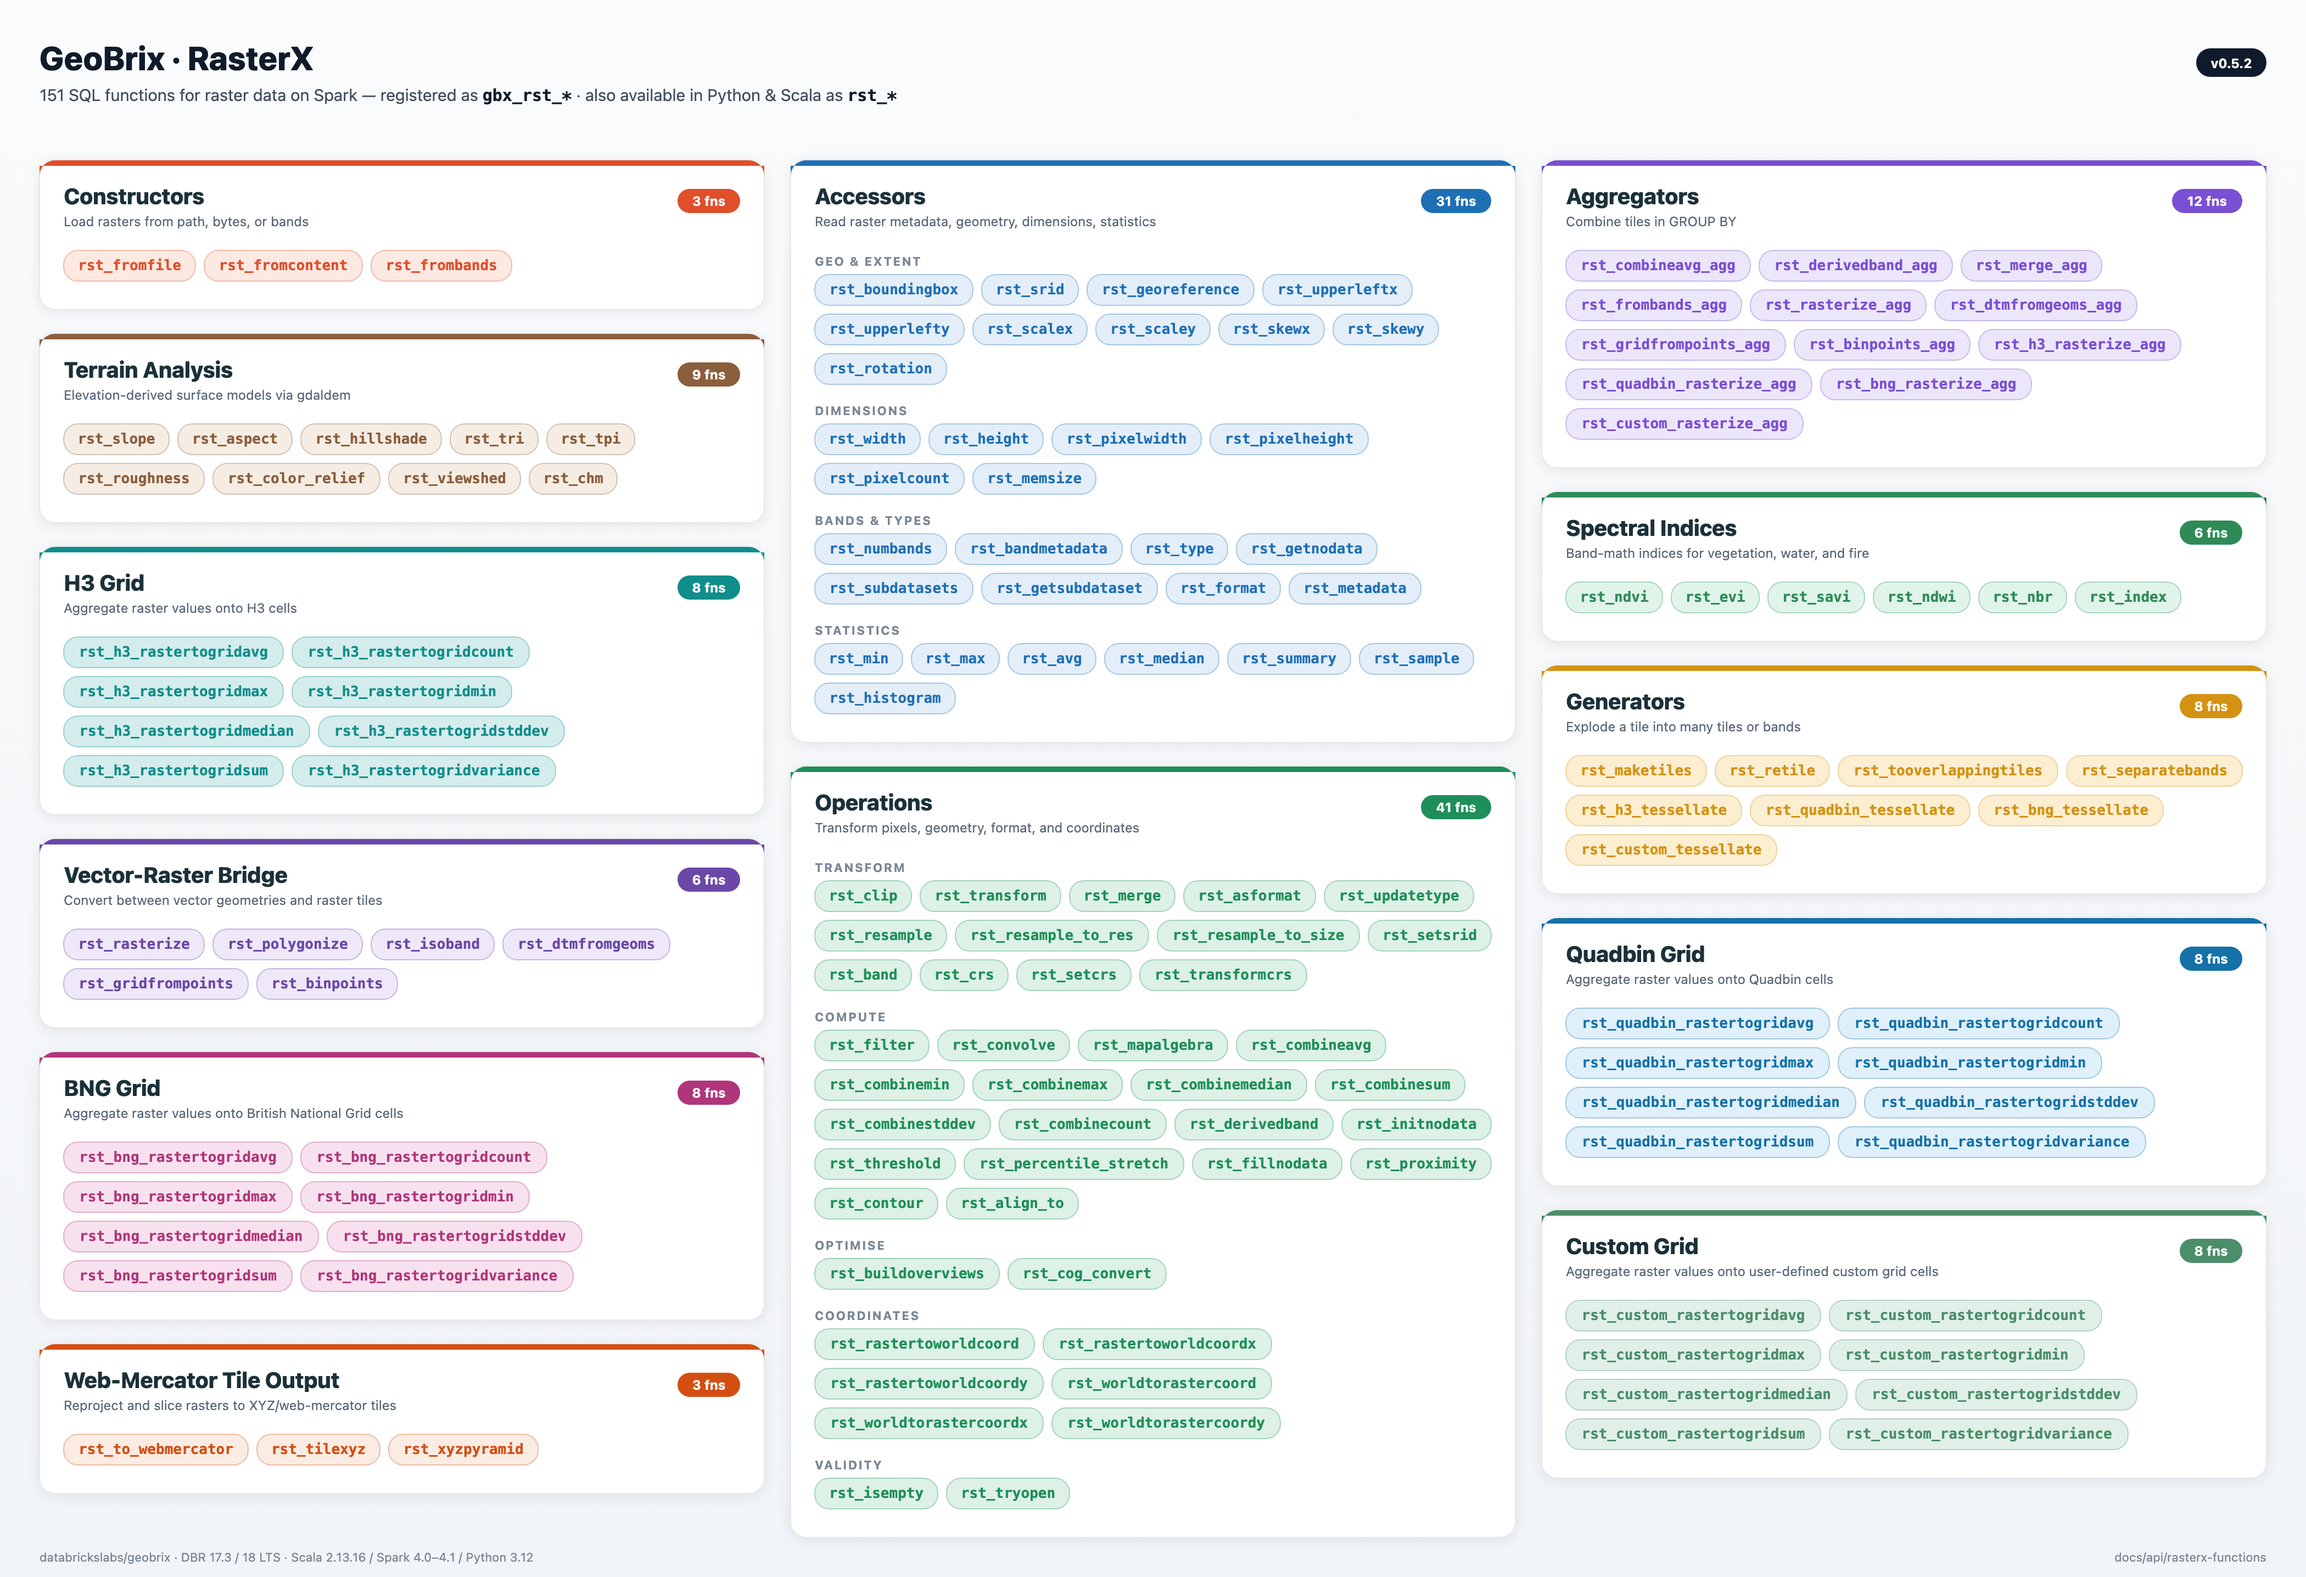
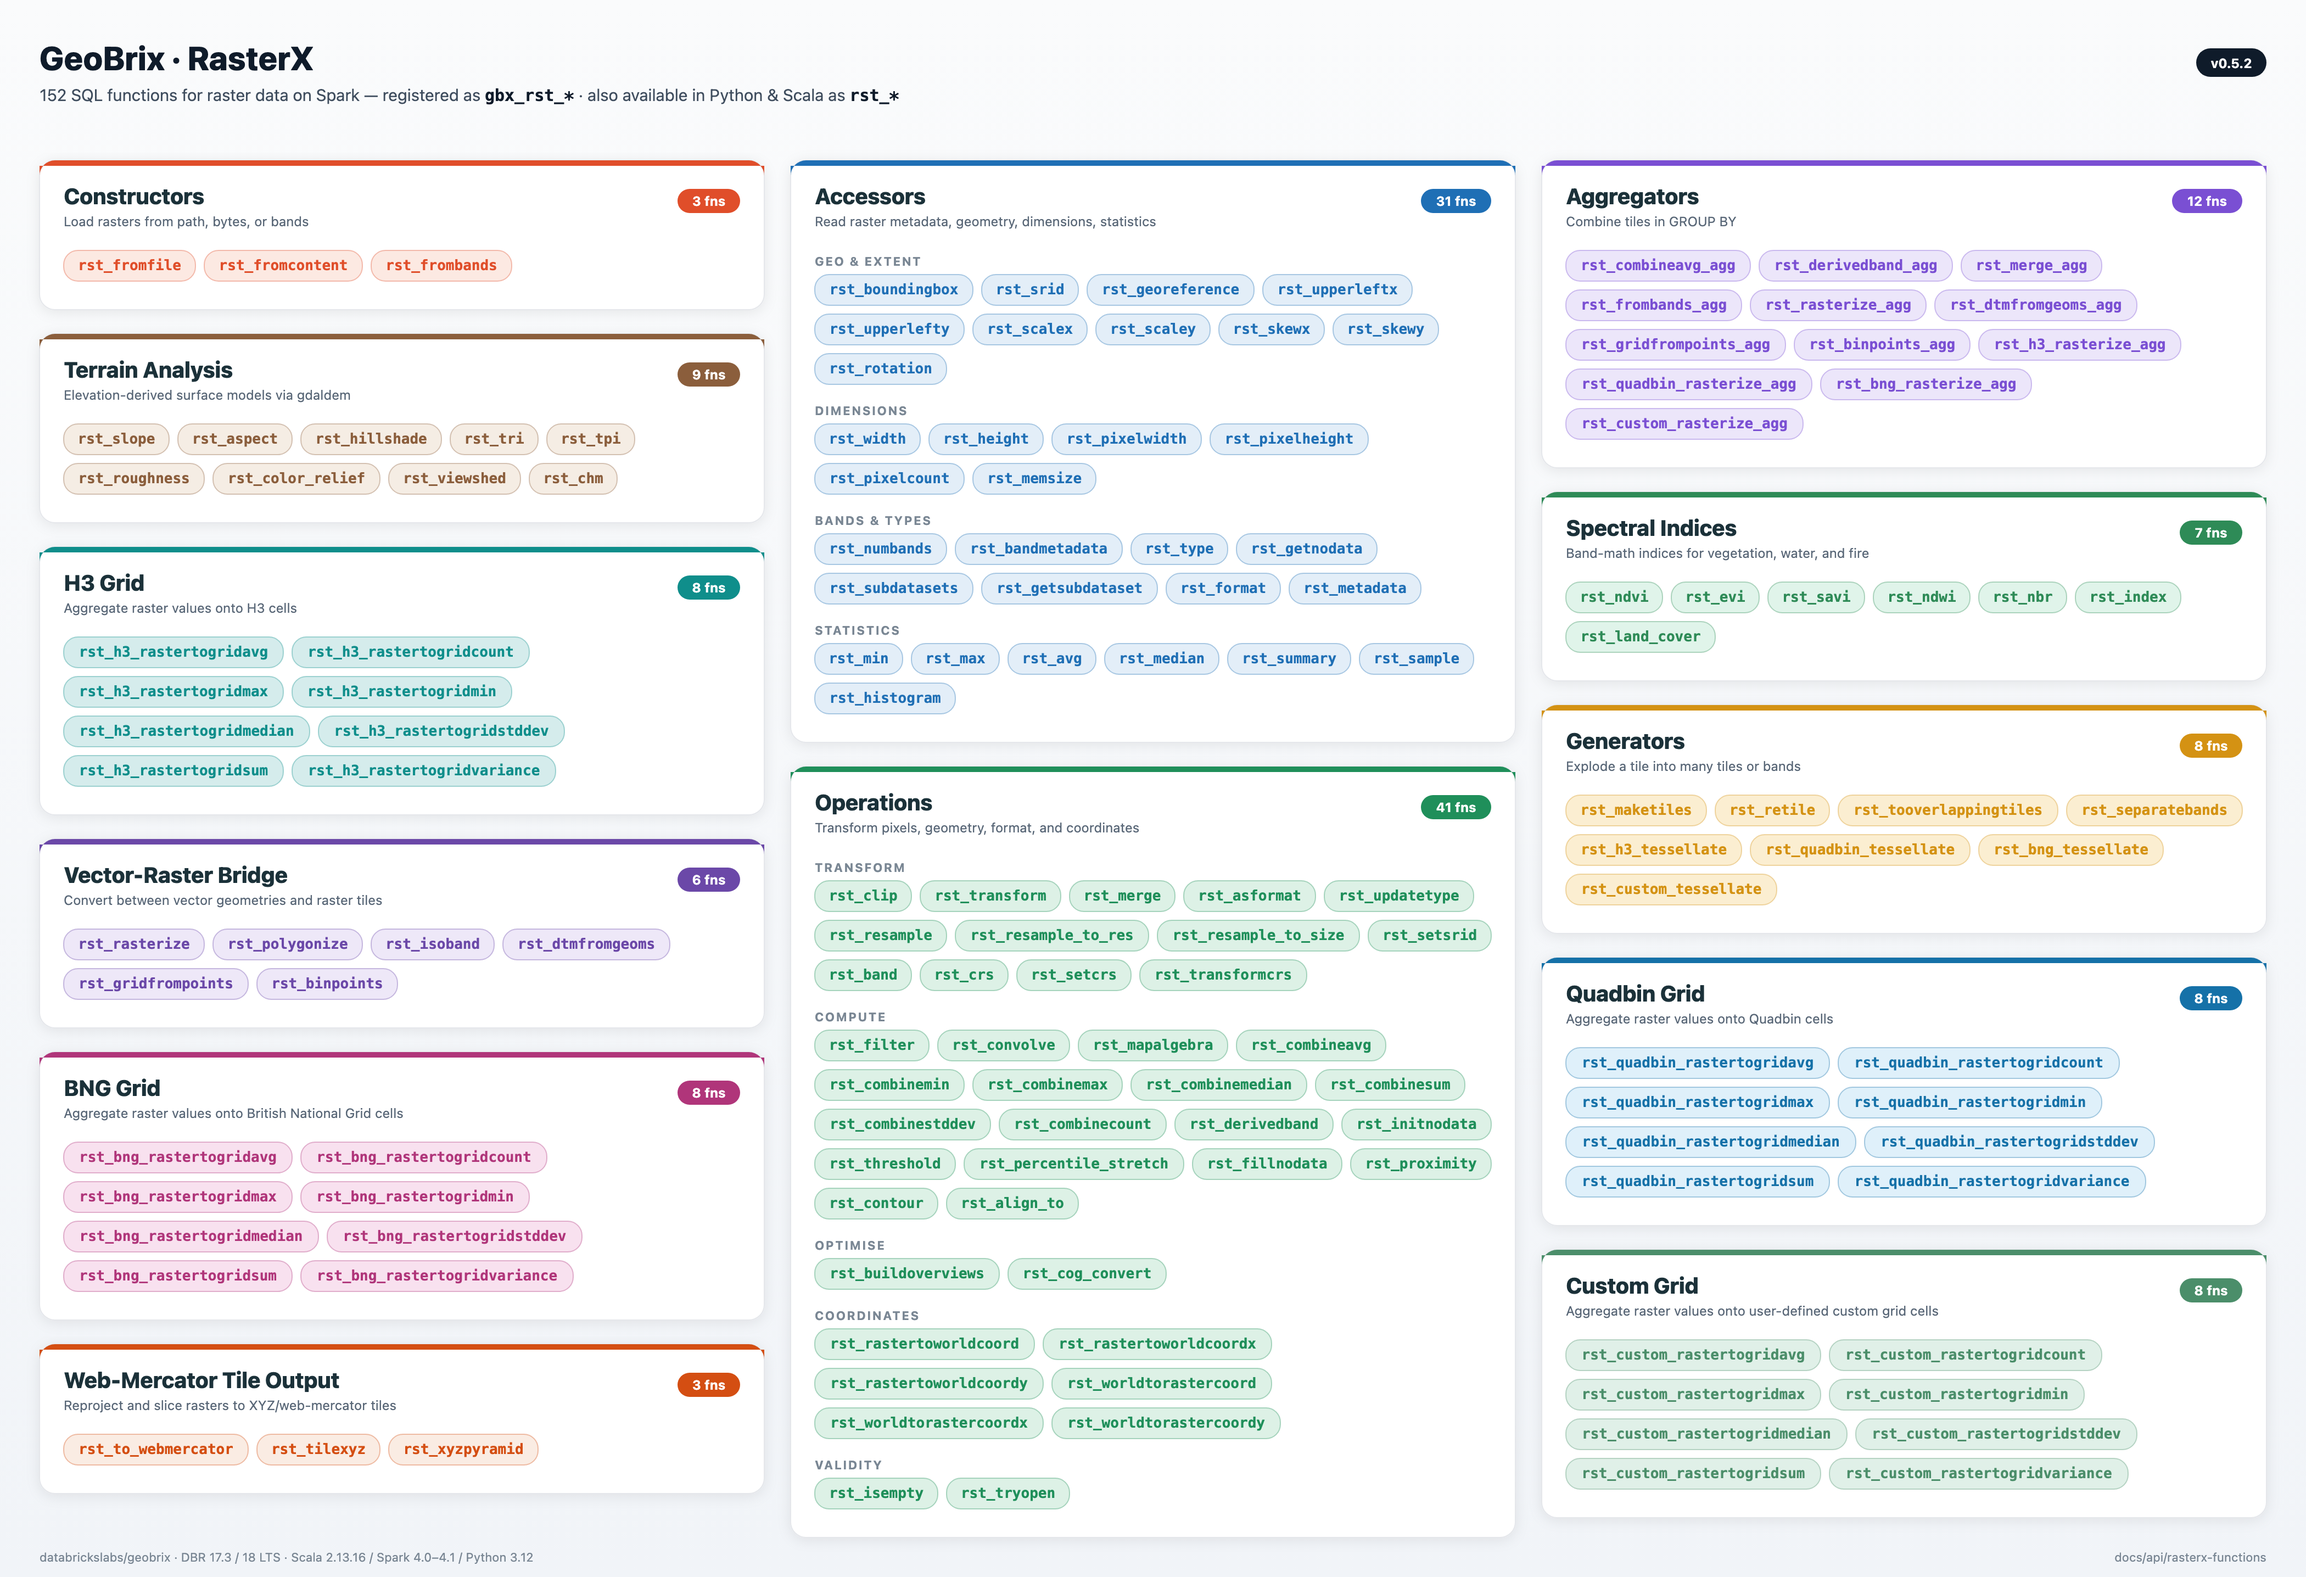
docs: add rst_land_cover to rasterx diagram + bump counts to 152
gbx_rst_land_cover was registered in registered_functions.txt but missing
from the Spectral Indices pill list in rasterx-function-categories.py,
causing D4a diagram-coverage FAIL. Added it to the Spectral Indices card
(spectral band classification — same family as rst_ndvi/evi/savi/ndwi).

Also updated the 3 stale "151 functions"/"151 SQL functions" count strings
in the generator (comment + both render()/render_landscape() subtitle lines)
to 152. Re-rendered portrait and landscape SVG/PNG artifacts.

Changed region(s): [[0.655, 0.3719, 0.9981, 0.9607], [0.2807, 0.031, 0.3119, 0.062]]

diff --git a/resources/images/generators/rasterx-function-categories.py b/resources/images/generators/rasterx-function-categories.py
@@ -28,7 +28,7 @@ Rasterize landscape PNG (for slides / 16:9 decks):
 from dataclasses import dataclass, field
 from textwrap import dedent
 
-# --- Data: 151 functions, organized by category --------------------------------
+# --- Data: 152 functions, organized by category --------------------------------
 
 @dataclass
 class Section:
@@ -105,7 +105,7 @@ CARDS_LEFT = [
         title="Spectral Indices",
         subtitle="Band-math indices for vegetation, water, and fire",
         color="#2E8B57", tint="#E0F4EA",
-        fns=["rst_ndvi", "rst_evi", "rst_savi", "rst_ndwi", "rst_nbr", "rst_index"],
+        fns=["rst_ndvi", "rst_evi", "rst_savi", "rst_ndwi", "rst_nbr", "rst_index", "rst_land_cover"],
     ),
     Card(
         title="H3 Grid",
@@ -407,7 +407,7 @@ def render():
     )
     parts.append(
         f'<text x="{PAD}" y="{PAD + 56}" font-size="15" fill="#3F4D5E">'
-        f'151 SQL functions for raster data on Spark &#8212; registered as '
+        f'152 SQL functions for raster data on Spark &#8212; registered as '
         f'<tspan font-family="ui-monospace, SFMono-Regular, Menlo, monospace" '
         f'font-weight="700" fill="#0F1B2A">gbx_rst_*</tspan>'
         f' &#183; also available in Python &amp; Scala as '
@@ -516,7 +516,7 @@ def render_landscape():
     )
     parts.append(
         f'<text x="{PAD}" y="{PAD + 56}" font-size="15" fill="#3F4D5E">'
-        f'151 SQL functions for raster data on Spark &#8212; registered as '
+        f'152 SQL functions for raster data on Spark &#8212; registered as '
         f'<tspan font-family="ui-monospace, SFMono-Regular, Menlo, monospace" '
         f'font-weight="700" fill="#0F1B2A">gbx_rst_*</tspan>'
         f' &#183; also available in Python &amp; Scala as '
